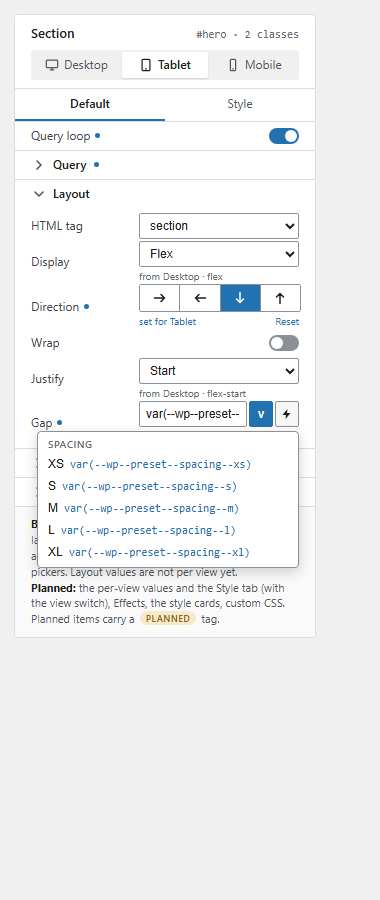
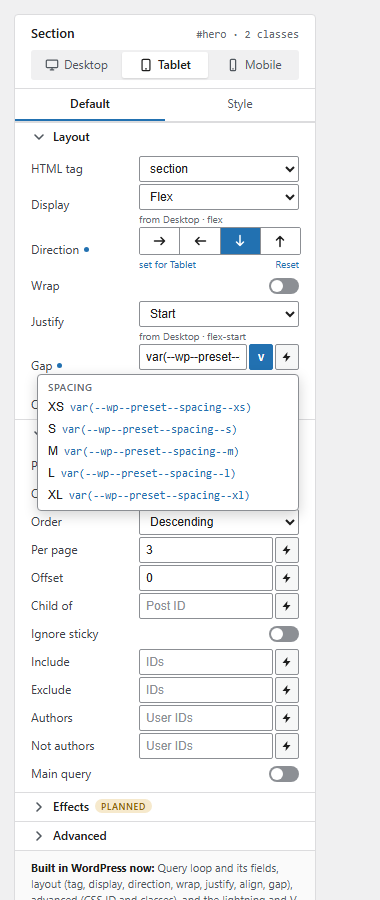
Panel: the Query loop group sits under Layout on the Default tab
The Default tab order is now Element, Layout, Query loop, Item, Effects,
Advanced, as the user asked (Query loop was above Layout before).

Changed:
- includes/blocks/assets/layout-blocks.js: the Query loop group moves after
  the Layout group in the Default pane; the header comment lists the groups
  in that order.
- Lab mock docs/research/controls-screens-2026-11-05/lab/panel-v3.html: the
  same order in the Default pane (the layout block now comes first).
- Lab previews panel-v3-1, -2, -3, -4, -7 and -8 (PNG) recaptured from the
  mock in the new order. Style previews (-5, -6) unchanged.

Tested:
- layout-blocks-test.php 121/121, layout-views-test.php 21/21,
  block-tools-test.php 37/37.
- Editor on blocks.local, draft page 541, Section block selected: the Default
  groups read Element, Layout, Query loop, Query, Item, Effects, Advanced.
  Screenshot of the panel checked by eye.

Not done:
- The mock still shows the old variable names (XS to XL and
  var(--wp--preset--spacing--...)); the editor uses size-10 and plain names.
  Left alone because this change only moves the query loop.

Roll back: git revert <this commit>, only after the user says so.

Changed region(s): [[0.0579, 0.1244, 0.8105, 1.0], [0.2895, 0.4356, 0.3184, 0.4667]]

diff --git a/docs/research/controls-screens-2026-11-05/lab/panel-v3.html b/docs/research/controls-screens-2026-11-05/lab/panel-v3.html
@@ -71,8 +71,53 @@ body{margin:0;background:#f0f0f1;padding:14px;width:max-content;font-family:-app
     <button class="mock-tab" type="button" role="tab" data-tab="style" aria-selected="false">Style</button>
   </div>
 
-  <!-- DEFAULT: the query loop, the layout, the effects (planned) and the advanced fields -->
+  <!-- DEFAULT: the layout, the query loop, the effects (planned) and the advanced fields -->
   <div class="pane" data-pane="default">
+
+    <!-- Layout: element and flex settings. Each value can differ per view; the line under it says where it comes from. -->
+    <div class="snn-acc" data-acc="layout">
+      <button type="button" class="snn-acc-head" aria-expanded="true" aria-disabled="false"><svg class="snn-chev" viewBox="0 0 16 16"><path d="M4 6l4 4 4-4"/></svg><span class="snn-acc-title">Layout</span></button>
+      <div class="snn-acc-body">
+        <div class="snn-row"><span class="snn-row-label">HTML tag</span><div class="snn-row-control"><select class="snn-select" aria-label="HTML tag"><option>section</option><option>div</option><option>header</option><option>footer</option><option>main</option><option>article</option><option>aside</option><option>nav</option></select></div></div>
+
+        <div class="snn-row has-hint" data-view-row data-k="display"><span class="snn-row-label">Display<i class="snn-dot"></i></span>
+          <div class="snn-row-control"><select class="snn-select" data-k="display" aria-label="Display"><option value="block">Block</option><option value="flex">Flex</option><option value="grid">Grid</option></select>
+            <div class="snn-view-line"><span class="snn-view-hint"></span><button type="button" class="snn-reset" hidden>Reset</button></div></div></div>
+
+        <div class="snn-row has-hint" data-view-row data-k="direction" data-flex><span class="snn-row-label">Direction<i class="snn-dot"></i></span>
+          <div class="snn-row-control"><div class="snn-seg" role="group" aria-label="Direction" data-k="direction">
+            <button type="button" data-val="row" title="Row" aria-pressed="true"><svg viewBox="0 0 16 16"><path d="M2.5 8h10M9 4.5 12.5 8 9 11.5"/></svg></button>
+            <button type="button" data-val="row-reverse" title="Row reverse" aria-pressed="false"><svg viewBox="0 0 16 16"><path d="M13.5 8h-10M7 4.5 3.5 8 7 11.5"/></svg></button>
+            <button type="button" data-val="column" title="Column" aria-pressed="false"><svg viewBox="0 0 16 16"><path d="M8 2.5v10M4.5 9 8 12.5 11.5 9"/></svg></button>
+            <button type="button" data-val="column-reverse" title="Column reverse" aria-pressed="false"><svg viewBox="0 0 16 16"><path d="M8 13.5v-10M4.5 7 8 3.5 11.5 7"/></svg></button>
+          </div>
+            <div class="snn-view-line"><span class="snn-view-hint"></span><button type="button" class="snn-reset" hidden>Reset</button></div></div></div>
+
+        <div class="snn-row" data-flex><span class="snn-row-label">Wrap</span><div class="snn-row-control"><button type="button" class="snn-switch" role="switch" aria-checked="false" aria-label="Wrap"><span class="snn-switch-knob"></span></button></div></div>
+
+        <div class="snn-row has-hint" data-view-row data-k="justify" data-flex><span class="snn-row-label">Justify<i class="snn-dot"></i></span>
+          <div class="snn-row-control"><select class="snn-select" data-k="justify" aria-label="Justify content"><option value="">Default</option><option value="flex-start">Start</option><option value="center">Center</option><option value="flex-end">End</option><option value="space-between">Space between</option><option value="space-around">Space around</option><option value="space-evenly">Space evenly</option></select>
+            <div class="snn-view-line"><span class="snn-view-hint"></span><button type="button" class="snn-reset" hidden>Reset</button></div></div></div>
+
+        <div class="snn-row has-hint" data-view-row data-k="gap" data-gap-row><span class="snn-row-label">Gap<i class="snn-dot"></i></span>
+          <div class="snn-row-control"><div class="snn-field">
+            <div class="snn-input-wrap"><input class="snn-input" data-k="gap" type="text" placeholder="0" aria-label="Gap">
+              <button type="button" class="snn-tool" data-pop="vars-gap" title="Variables" aria-label="Variables" aria-expanded="false"><span class="snn-tool-text" aria-hidden="true">V</span></button>
+              <button type="button" class="snn-tool snn-tool-dyn" data-pop="none" title="Dynamic data" aria-label="Dynamic data"><svg class="snn-bolt" viewBox="0 0 24 24" width="12" height="12" aria-hidden="true" focusable="false"><path d="M13 2 3 14h7l-1 8 10-12h-7z" fill="currentColor"/></svg></button></div>
+            <div class="snn-pop" data-pop-id="vars-gap" hidden>
+              <div class="snn-pop-list">
+                <div class="snn-pop-group">Spacing</div>
+                <button type="button" class="snn-pop-item" data-set="var(--wp--preset--spacing--xs)"><span class="snn-pop-label">XS</span><code>var(--wp--preset--spacing--xs)</code></button>
+                <button type="button" class="snn-pop-item" data-set="var(--wp--preset--spacing--s)"><span class="snn-pop-label">S</span><code>var(--wp--preset--spacing--s)</code></button>
+                <button type="button" class="snn-pop-item" data-set="var(--wp--preset--spacing--m)"><span class="snn-pop-label">M</span><code>var(--wp--preset--spacing--m)</code></button>
+                <button type="button" class="snn-pop-item" data-set="var(--wp--preset--spacing--l)"><span class="snn-pop-label">L</span><code>var(--wp--preset--spacing--l)</code></button>
+                <button type="button" class="snn-pop-item" data-set="var(--wp--preset--spacing--xl)"><span class="snn-pop-label">XL</span><code>var(--wp--preset--spacing--xl)</code></button>
+              </div>
+            </div>
+          </div>
+            <div class="snn-view-line"><span class="snn-view-hint"></span><button type="button" class="snn-reset" hidden>Reset</button></div></div></div>
+      </div>
+    </div>
 
     <div class="snn-row" data-role="query-row">
       <span class="snn-row-label">Query loop<i class="snn-dot"></i></span>
@@ -117,51 +162,6 @@ body{margin:0;background:#f0f0f1;padding:14px;width:max-content;font-family:-app
         <div class="snn-row"><span class="snn-row-label">Authors</span><div class="snn-row-control"><div class="snn-field"><div class="snn-input-wrap"><input class="snn-input" type="text" placeholder="User IDs" aria-label="Include authors"><button type="button" class="snn-tool snn-tool-dyn" data-pop="none" title="Dynamic data" aria-label="Dynamic data"><svg class="snn-bolt" viewBox="0 0 24 24" width="12" height="12" aria-hidden="true" focusable="false"><path d="M13 2 3 14h7l-1 8 10-12h-7z" fill="currentColor"/></svg></button></div></div></div></div>
         <div class="snn-row"><span class="snn-row-label">Not authors</span><div class="snn-row-control"><div class="snn-field"><div class="snn-input-wrap"><input class="snn-input" type="text" placeholder="User IDs" aria-label="Exclude authors"><button type="button" class="snn-tool snn-tool-dyn" data-pop="none" title="Dynamic data" aria-label="Dynamic data"><svg class="snn-bolt" viewBox="0 0 24 24" width="12" height="12" aria-hidden="true" focusable="false"><path d="M13 2 3 14h7l-1 8 10-12h-7z" fill="currentColor"/></svg></button></div></div></div></div>
         <div class="snn-row"><span class="snn-row-label">Main query</span><div class="snn-row-control"><button type="button" class="snn-switch" role="switch" aria-checked="false" aria-label="Main query"><span class="snn-switch-knob"></span></button></div></div>
-      </div>
-    </div>
-
-    <!-- Layout: element and flex settings. Each value can differ per view; the line under it says where it comes from. -->
-    <div class="snn-acc" data-acc="layout">
-      <button type="button" class="snn-acc-head" aria-expanded="true" aria-disabled="false"><svg class="snn-chev" viewBox="0 0 16 16"><path d="M4 6l4 4 4-4"/></svg><span class="snn-acc-title">Layout</span></button>
-      <div class="snn-acc-body">
-        <div class="snn-row"><span class="snn-row-label">HTML tag</span><div class="snn-row-control"><select class="snn-select" aria-label="HTML tag"><option>section</option><option>div</option><option>header</option><option>footer</option><option>main</option><option>article</option><option>aside</option><option>nav</option></select></div></div>
-
-        <div class="snn-row has-hint" data-view-row data-k="display"><span class="snn-row-label">Display<i class="snn-dot"></i></span>
-          <div class="snn-row-control"><select class="snn-select" data-k="display" aria-label="Display"><option value="block">Block</option><option value="flex">Flex</option><option value="grid">Grid</option></select>
-            <div class="snn-view-line"><span class="snn-view-hint"></span><button type="button" class="snn-reset" hidden>Reset</button></div></div></div>
-
-        <div class="snn-row has-hint" data-view-row data-k="direction" data-flex><span class="snn-row-label">Direction<i class="snn-dot"></i></span>
-          <div class="snn-row-control"><div class="snn-seg" role="group" aria-label="Direction" data-k="direction">
-            <button type="button" data-val="row" title="Row" aria-pressed="true"><svg viewBox="0 0 16 16"><path d="M2.5 8h10M9 4.5 12.5 8 9 11.5"/></svg></button>
-            <button type="button" data-val="row-reverse" title="Row reverse" aria-pressed="false"><svg viewBox="0 0 16 16"><path d="M13.5 8h-10M7 4.5 3.5 8 7 11.5"/></svg></button>
-            <button type="button" data-val="column" title="Column" aria-pressed="false"><svg viewBox="0 0 16 16"><path d="M8 2.5v10M4.5 9 8 12.5 11.5 9"/></svg></button>
-            <button type="button" data-val="column-reverse" title="Column reverse" aria-pressed="false"><svg viewBox="0 0 16 16"><path d="M8 13.5v-10M4.5 7 8 3.5 11.5 7"/></svg></button>
-          </div>
-            <div class="snn-view-line"><span class="snn-view-hint"></span><button type="button" class="snn-reset" hidden>Reset</button></div></div></div>
-
-        <div class="snn-row" data-flex><span class="snn-row-label">Wrap</span><div class="snn-row-control"><button type="button" class="snn-switch" role="switch" aria-checked="false" aria-label="Wrap"><span class="snn-switch-knob"></span></button></div></div>
-
-        <div class="snn-row has-hint" data-view-row data-k="justify" data-flex><span class="snn-row-label">Justify<i class="snn-dot"></i></span>
-          <div class="snn-row-control"><select class="snn-select" data-k="justify" aria-label="Justify content"><option value="">Default</option><option value="flex-start">Start</option><option value="center">Center</option><option value="flex-end">End</option><option value="space-between">Space between</option><option value="space-around">Space around</option><option value="space-evenly">Space evenly</option></select>
-            <div class="snn-view-line"><span class="snn-view-hint"></span><button type="button" class="snn-reset" hidden>Reset</button></div></div></div>
-
-        <div class="snn-row has-hint" data-view-row data-k="gap" data-gap-row><span class="snn-row-label">Gap<i class="snn-dot"></i></span>
-          <div class="snn-row-control"><div class="snn-field">
-            <div class="snn-input-wrap"><input class="snn-input" data-k="gap" type="text" placeholder="0" aria-label="Gap">
-              <button type="button" class="snn-tool" data-pop="vars-gap" title="Variables" aria-label="Variables" aria-expanded="false"><span class="snn-tool-text" aria-hidden="true">V</span></button>
-              <button type="button" class="snn-tool snn-tool-dyn" data-pop="none" title="Dynamic data" aria-label="Dynamic data"><svg class="snn-bolt" viewBox="0 0 24 24" width="12" height="12" aria-hidden="true" focusable="false"><path d="M13 2 3 14h7l-1 8 10-12h-7z" fill="currentColor"/></svg></button></div>
-            <div class="snn-pop" data-pop-id="vars-gap" hidden>
-              <div class="snn-pop-list">
-                <div class="snn-pop-group">Spacing</div>
-                <button type="button" class="snn-pop-item" data-set="var(--wp--preset--spacing--xs)"><span class="snn-pop-label">XS</span><code>var(--wp--preset--spacing--xs)</code></button>
-                <button type="button" class="snn-pop-item" data-set="var(--wp--preset--spacing--s)"><span class="snn-pop-label">S</span><code>var(--wp--preset--spacing--s)</code></button>
-                <button type="button" class="snn-pop-item" data-set="var(--wp--preset--spacing--m)"><span class="snn-pop-label">M</span><code>var(--wp--preset--spacing--m)</code></button>
-                <button type="button" class="snn-pop-item" data-set="var(--wp--preset--spacing--l)"><span class="snn-pop-label">L</span><code>var(--wp--preset--spacing--l)</code></button>
-                <button type="button" class="snn-pop-item" data-set="var(--wp--preset--spacing--xl)"><span class="snn-pop-label">XL</span><code>var(--wp--preset--spacing--xl)</code></button>
-              </div>
-            </div>
-          </div>
-            <div class="snn-view-line"><span class="snn-view-hint"></span><button type="button" class="snn-reset" hidden>Reset</button></div></div></div>
       </div>
     </div>
 

diff --git a/includes/blocks/assets/layout-blocks.js b/includes/blocks/assets/layout-blocks.js
@@ -2,13 +2,13 @@
  * SNN layout blocks for the block editor: Section, Container and Div.
  *
  * The settings sit in the block's inspector, in compact rows (see controls.js):
- *   Query loop      a switch. Turned on, the Query section below it can open.
- *   Query           an accordion, disabled while the switch is off. Post type, order, per page,
- *                   offset, child of, sticky, include and exclude, authors, main query.
  *   Layout          display (a dropdown: flex, block, grid), then its settings:
  *                   flex direction, wrap, justify, align and gaps; grid columns, rows, flow,
  *                   justify items and align content. The settings are icons where a choice has a
  *                   picture (layout-icons.js), and the pictures follow the direction.
+ *   Query loop      a switch. Turned on, the Query section below it can open.
+ *   Query           an accordion, disabled while the switch is off. Post type, order, per page,
+ *                   offset, child of, sticky, include and exclude, authors, main query.
  *   Item            how the block sits in its flex or grid parent: align self, grow, shrink, basis,
  *                   justify self, column and row span. Only the settings its parent needs show.
  *   Header          the name, with the Conditions and Interactions buttons at the top right; the CSS ID (the
@@ -970,7 +970,7 @@
 			h( ViewSwitch, null )
 		);
 
-		// Default: the element, the query loop, the layout, the item, the effects (planned), and the advanced fields.
+		// Default: the element, the layout, the query loop, the item, the effects (planned), and the advanced fields.
 		const defaultPane = h(
 			'div',
 			{ className: 'snn-pane' },
@@ -987,6 +987,11 @@
 						onChange: ( v ) => set( { tagName: v } ),
 					} )
 				)
+			),
+			h(
+				Group,
+				{ title: __( 'Layout', 'snn' ), note: __( 'all viewports', 'snn' ) },
+				h( LayoutFields, { a, set, tag } )
 			),
 			h(
 				Group,
@@ -1013,11 +1018,6 @@
 					},
 					h( QueryFields, { q, setQ } )
 				)
-			),
-			h(
-				Group,
-				{ title: __( 'Layout', 'snn' ), note: __( 'all viewports', 'snn' ) },
-				h( LayoutFields, { a, set, tag } )
 			),
 			h(
 				Disclosure,
